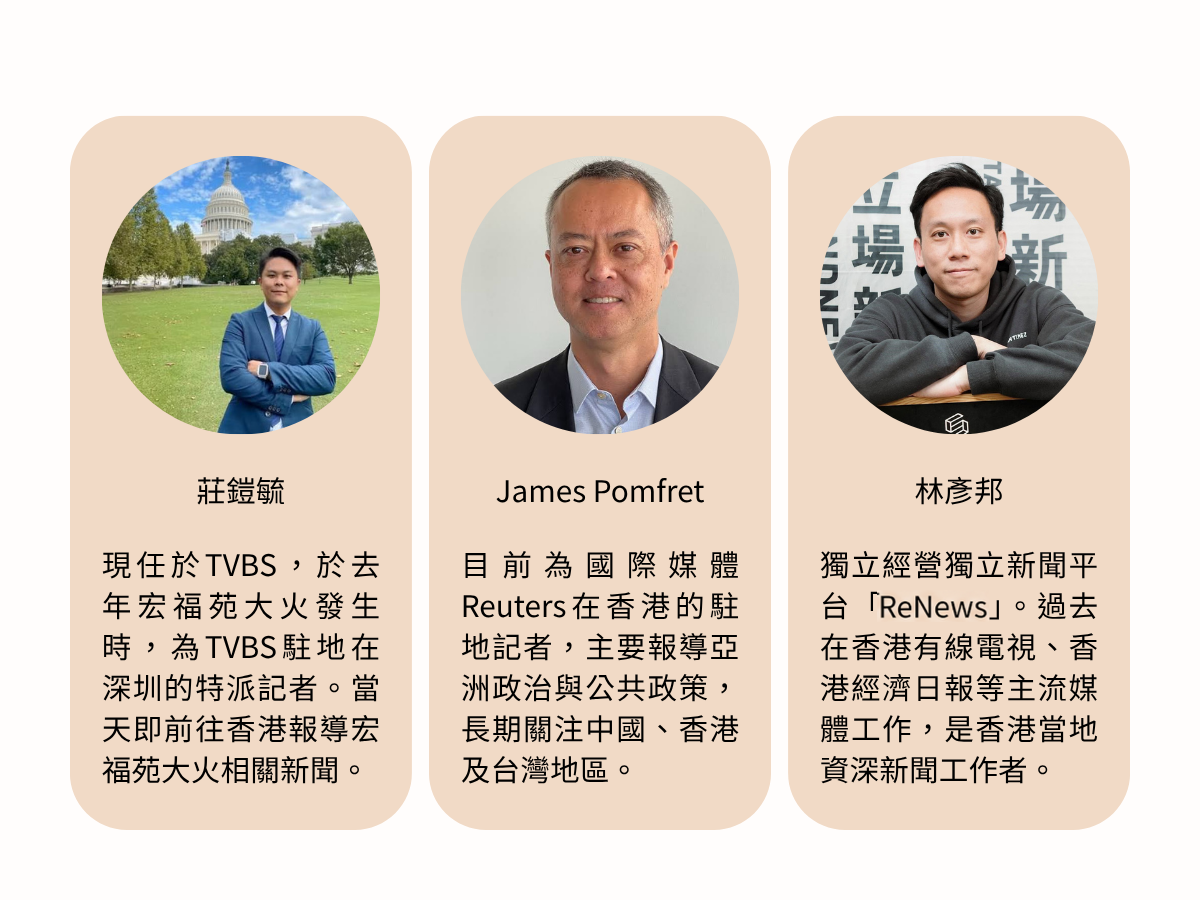
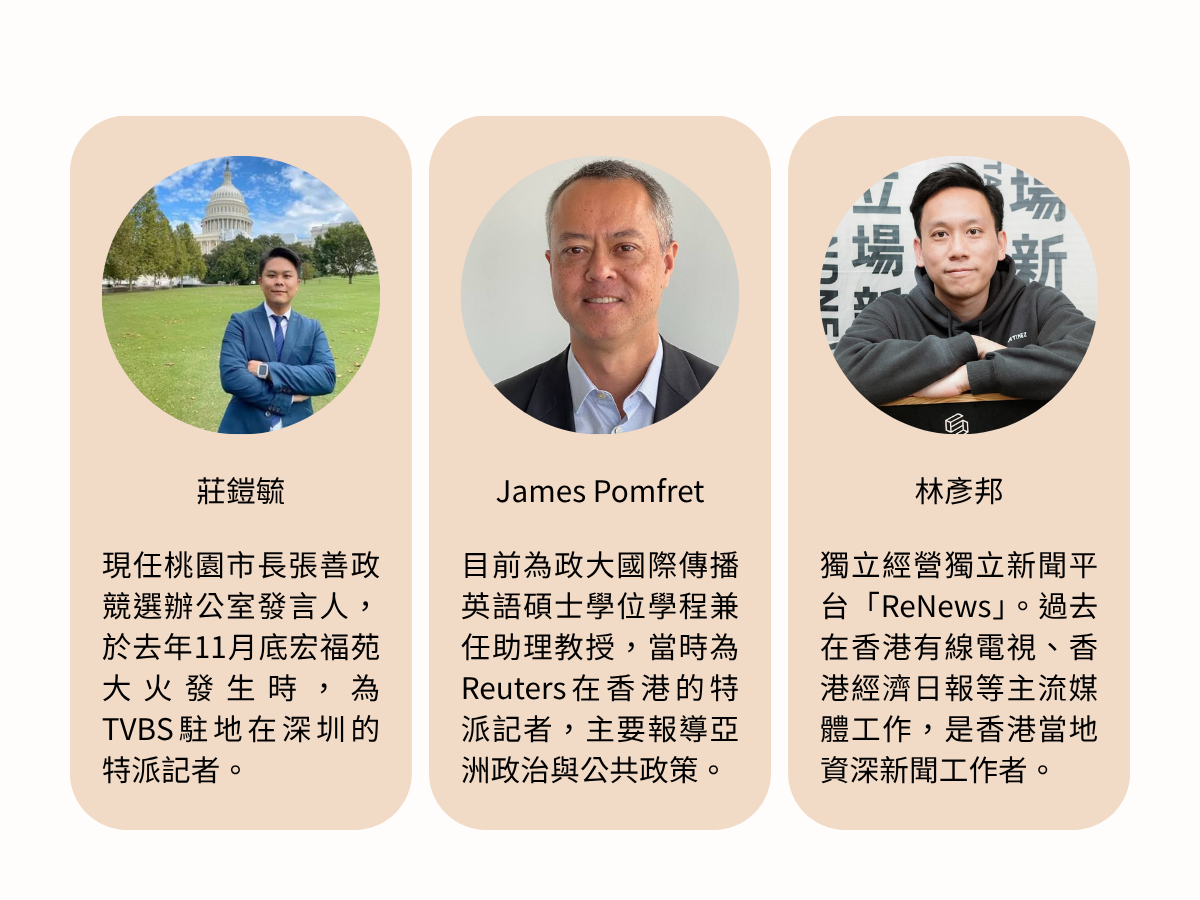
update

Changed region(s): [[0.37, 0.5911, 0.6167, 0.8711], [0.0617, 0.5911, 0.3392, 0.8711], [0.7092, 0.6533, 0.8942, 0.6844]]

diff --git a/article.html b/article.html
@@ -46,7 +46,7 @@
 
       <p>然而，在火災發生當下，台灣、外媒和當地獨立記者前往現場，紀錄宏福苑大火當時的慘況，在香港媒體逐漸減縮的情況，他們抵達現場，報導事實、挖掘故事，為讀者們挖掘更多元的面向與視角。</p>
 
-      <img class="article-reporters-image" src="images/reporters-introduction.png" width="1200" height="900" alt="三位記者介紹：TVBS記者莊鎧毓、Reuters駐香港記者James Pomfret，以及ReNews創辦人林彥邦。" loading="lazy" decoding="async">
+      <img class="article-reporters-image" src="images/reporters-introduction.png" width="1200" height="900" alt="三位記者介紹：大火發生時為TVBS駐深圳特派記者的莊鎧毓、當時為Reuters駐香港特派記者的James Pomfret，以及獨立經營ReNews的林彥邦。" loading="lazy" decoding="async">
       <p class="article-caption" id="reporters-caption">TVBS記者<a href="zhuang.html" target="_blank" rel="noopener noreferrer">莊鎧毓</a>、Reuters記者<a href="james.html" target="_blank" rel="noopener noreferrer">James Pomfret</a>及ReNews記者<a href="lam.html" target="_blank" rel="noopener noreferrer">林彥邦</a>前往宏福苑大火現場，為民眾報導及更新宏福苑大火最新情形。　圖／黃暐喬製</p>
 
       <h2 class="article-heading">和時間賽跑：團隊採訪與獨立作業的臨場應變</h2>

diff --git a/index.html b/index.html
@@ -46,7 +46,7 @@
 
       <p>然而，在火災發生當下，台灣、外媒和當地獨立記者前往現場，紀錄宏福苑大火當時的慘況，在香港媒體逐漸減縮的情況，他們抵達現場，報導事實、挖掘故事，為讀者們挖掘更多元的面向與視角。</p>
 
-      <img class="article-reporters-image" src="images/reporters-introduction.png" width="1200" height="900" alt="三位記者介紹：TVBS記者莊鎧毓、Reuters駐香港記者James Pomfret，以及ReNews創辦人林彥邦。" loading="lazy" decoding="async">
+      <img class="article-reporters-image" src="images/reporters-introduction.png" width="1200" height="900" alt="三位記者介紹：大火發生時為TVBS駐深圳特派記者的莊鎧毓、當時為Reuters駐香港特派記者的James Pomfret，以及獨立經營ReNews的林彥邦。" loading="lazy" decoding="async">
       <p class="article-caption" id="reporters-caption">TVBS記者<a href="zhuang.html" target="_blank" rel="noopener noreferrer">莊鎧毓</a>、Reuters記者<a href="james.html" target="_blank" rel="noopener noreferrer">James Pomfret</a>及ReNews記者<a href="lam.html" target="_blank" rel="noopener noreferrer">林彥邦</a>前往宏福苑大火現場，為民眾報導及更新宏福苑大火最新情形。　圖／黃暐喬製</p>
 
       <h2 class="article-heading">和時間賽跑：團隊採訪與獨立作業的臨場應變</h2>
